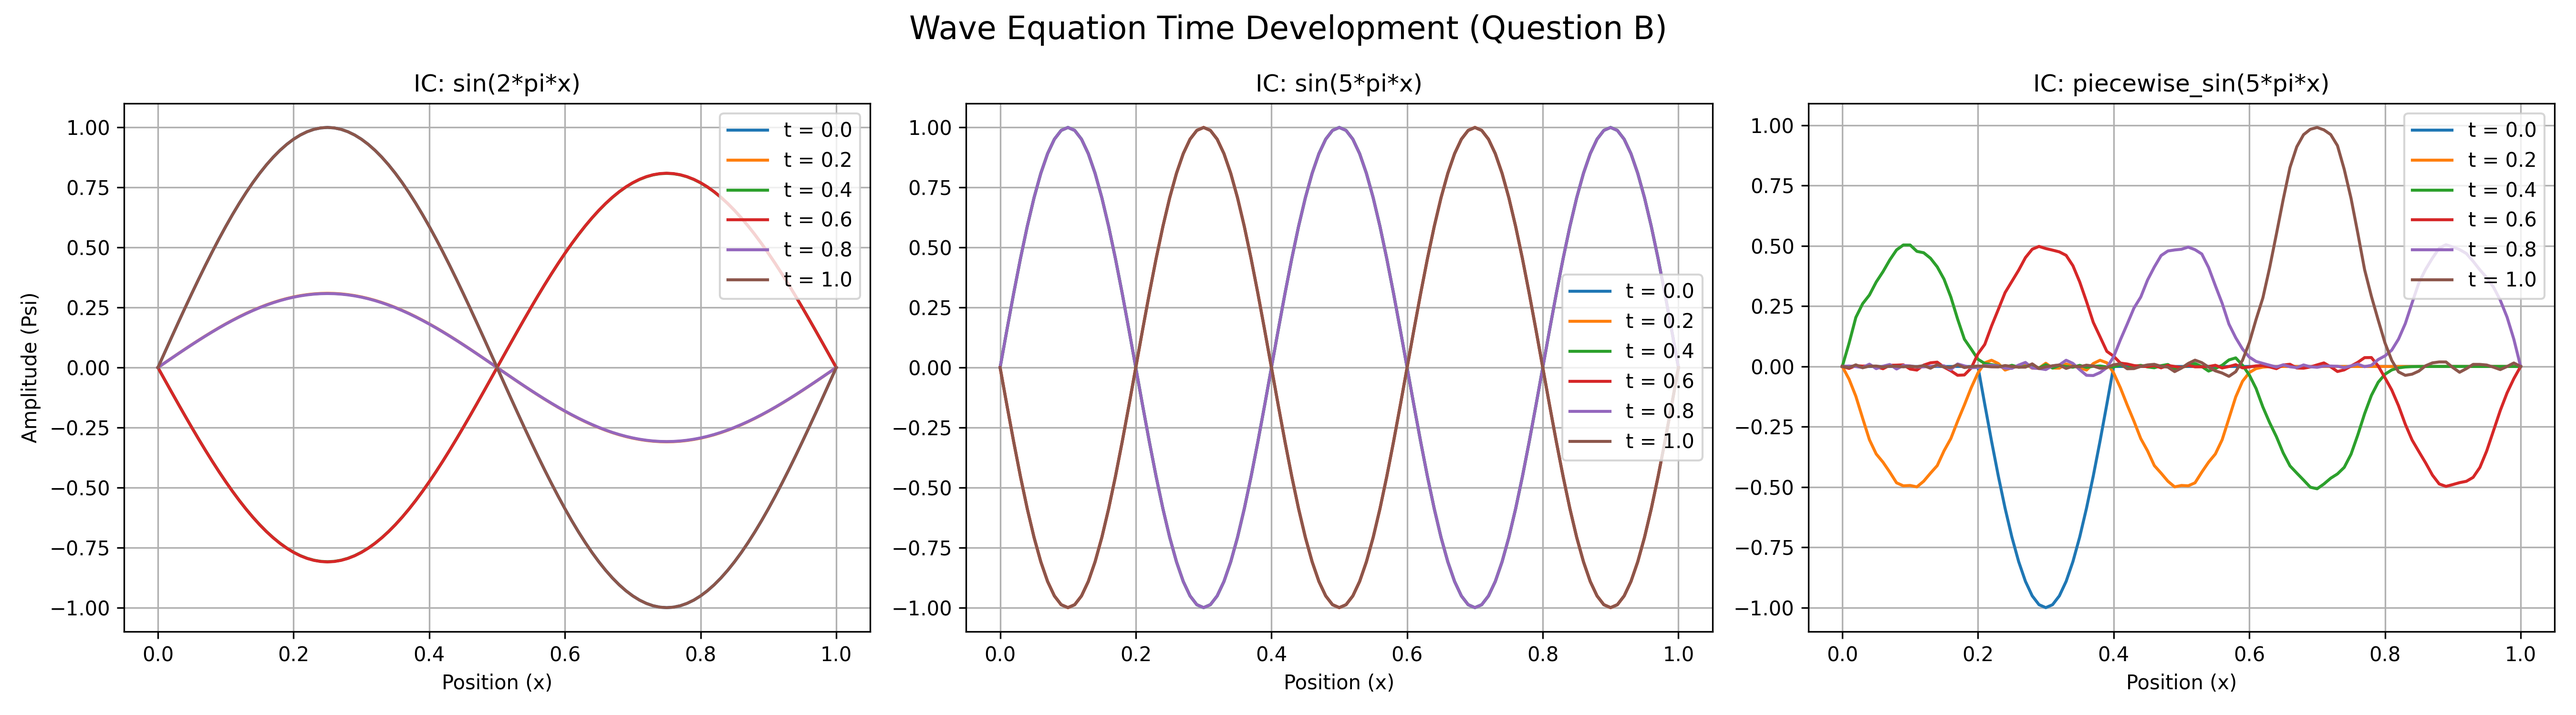
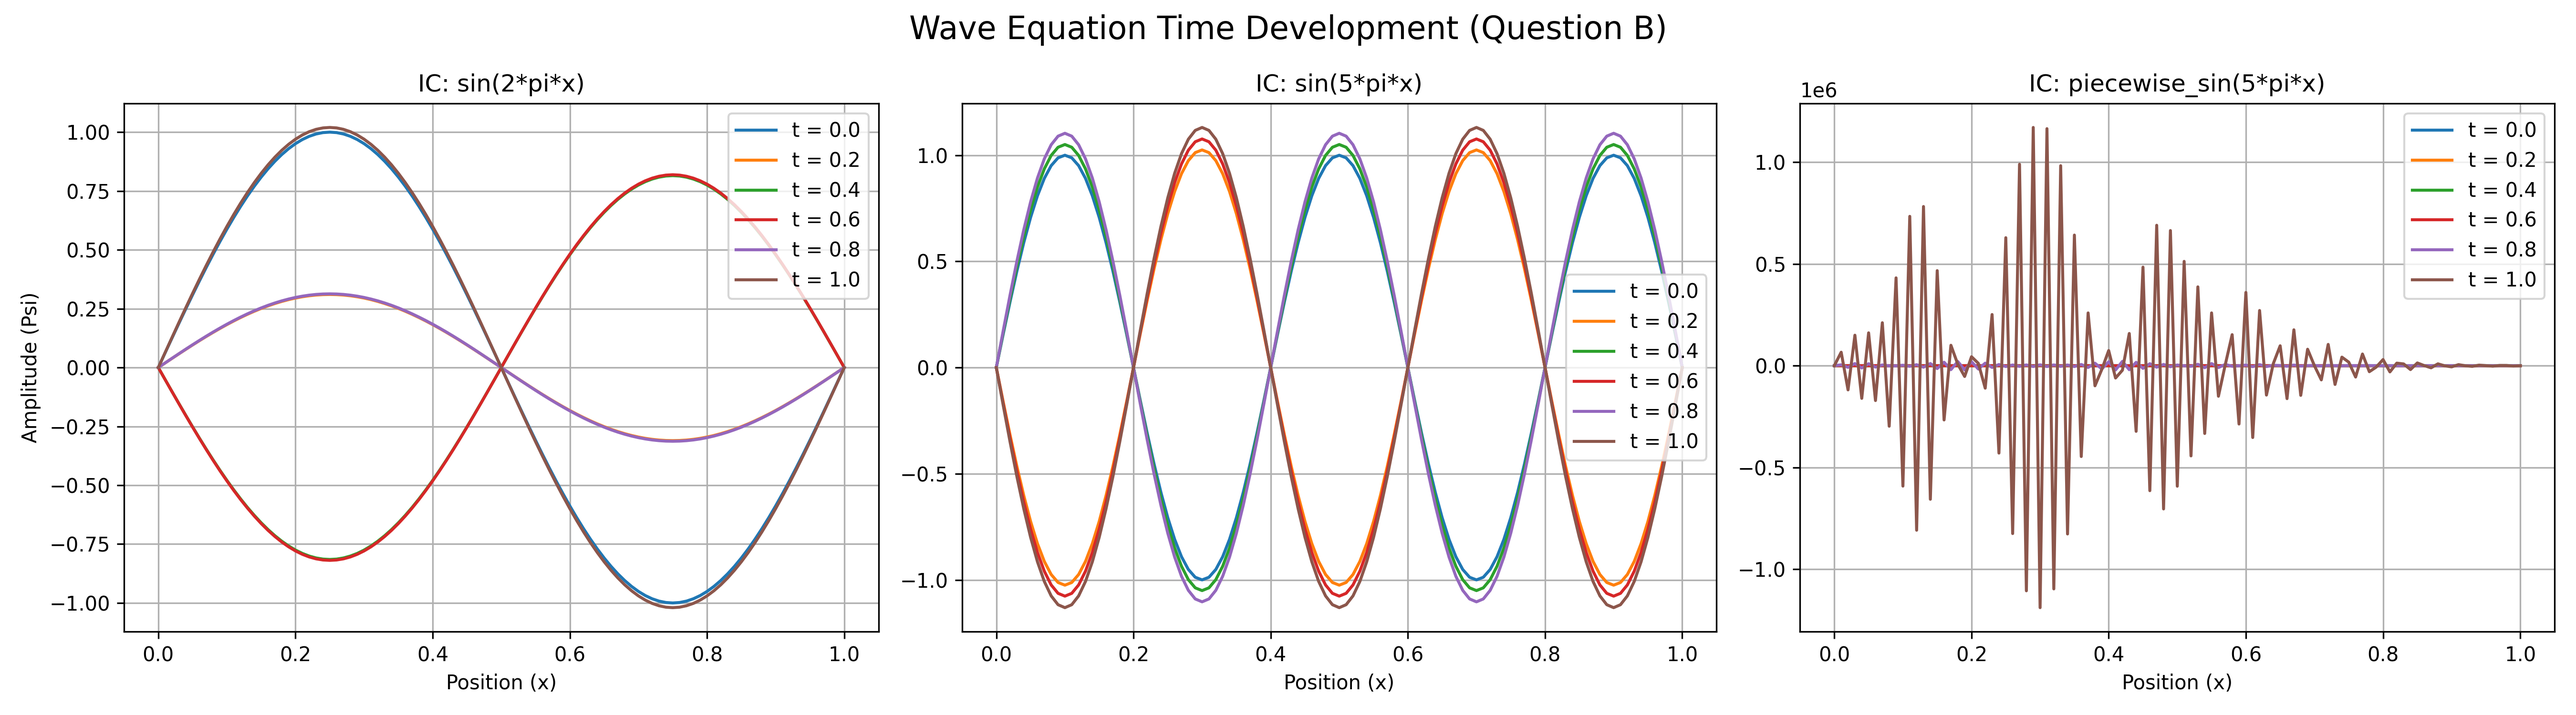
leapfrog vs euler

diff --git a/assignment_1/experiment_wave.py b/assignment_1/experiment_wave.py
@@ -126,45 +126,70 @@ def run_experiment_c():
         plt.close()
 
 def run_experiment_bonus():
-    """Run and plot the results for the Optional Leapfrog Bonus"""
-    print("Running Optional Bonus: Leapfrog vs Explicit Stability...")
+    """Run and plot the results for the Optional Leapfrog Bonus.
+    Compares the forward Euler method (which is not symplectic and gains energy)
+    against the Leapfrog method (which is symplectic and conserves energy)."""
+    print("Running Optional Bonus: Euler vs Leapfrog Stability...")
     L = 1.0
     N = 100
     c = 1.0
     dt = 0.001
     x = np.linspace(0, L, N + 1)
-
-    # Use a long time to clearly see error accumulation in explicit
-    t_max = 20.0
-
-    # We use sin(2pix)
     psi0 = initial_condition_1(x)
 
-    print("  Solving with Explicit Method...")
-    psi_explicit, _ = solve_wave_equation(psi0, N, dt, c=c, L=L, t_max=t_max)
+    # --- Panel 1: String state comparison at a moderate time ---
+    # At t=1.5 the Euler drift is visible but hasn't blown up yet
+    t_compare = 1.5
+    psi_euler_short, _ = solve_wave_equation(psi0, N, dt, c=c, L=L, t_max=t_compare)
+    psi_lf_short, _ = solve_wave_equation_leapfrog(psi0, N, dt, c=c, L=L, t_max=t_compare)
+    # Analytical: sin(2*pi*x) * cos(2*pi*1.5) = sin(2*pi*x) * cos(3*pi) = -sin(2*pi*x)
+    analytical = np.sin(2 * np.pi * x) * np.cos(2 * np.pi * c * t_compare / L)
 
+    # --- Panel 2: Amplitude over time on log scale to show divergence ---
+    t_long = 3.0  # Euler diverges around t~2.5
+    print("  Solving with Euler Method...")
+    psi_euler, _ = solve_wave_equation(psi0, N, dt, c=c, L=L, t_max=t_long)
     print("  Solving with Symplectic Leapfrog Method...")
-    psi_leapfrog, _ = solve_wave_equation_leapfrog(psi0, N, dt, c=c, L=L, t_max=t_max)
+    psi_leapfrog, _ = solve_wave_equation_leapfrog(psi0, N, dt, c=c, L=L, t_max=t_long)
 
-    # Let's compare the string state at the very end
-    plt.figure(figsize=(10, 6))
-    plt.plot(x, psi0, 'k--', label="t = 0 (Initial)", alpha=0.5)
+    fig, axes = plt.subplots(1, 2, figsize=(14, 5))
+    fig.suptitle("Euler vs Leapfrog: Stability Comparison", fontsize=16)
 
-    # analytical solution at t_max should be back to sin(2*pi*x) if t_max is an integer multiple of the period
-    # period = L / c = 1.0. So at t=20.0, it's exactly the initial condition.
-    plt.plot(x, psi_explicit[-1, :], 'r-', label="Explicit Method (t=20)")
-    plt.plot(x, psi_leapfrog[-1, :], 'b-', label="Leapfrog Method (t=20)")
+    # Panel 1
+    ax = axes[0]
+    ax.plot(x, analytical, 'k--', label=f"Exact (t={t_compare})", alpha=0.5)
+    ax.plot(x, psi_euler_short[-1, :], 'r-', label=f"Euler (t={t_compare})")
+    ax.plot(x, psi_lf_short[-1, :], 'b-', label=f"Leapfrog (t={t_compare})")
+    ax.set_title(f"String State at t = {t_compare}")
+    ax.set_xlabel("Position (x)")
+    ax.set_ylabel("Amplitude (Ψ)")
+    ax.legend()
+    ax.grid(True)
 
-    plt.title(f"Wave Equation Stability after Long Time (t={t_max})")
-    plt.xlabel("Position (x)")
-    plt.ylabel("Amplitude (Psi)")
-    plt.legend()
-    plt.grid(True)
+    # Panel 2: Log-scale amplitude
+    ax = axes[1]
+    n_steps = psi_euler.shape[0]
+    sample_interval = 100
+    sample_indices = range(0, n_steps, sample_interval)
+    times = [i * dt for i in sample_indices]
+    amp_euler = [np.max(np.abs(psi_euler[i, :])) for i in sample_indices]
+    amp_leapfrog = [np.max(np.abs(psi_leapfrog[i, :])) for i in sample_indices]
 
+    ax.semilogy(times, amp_euler, 'r-', label="Euler", linewidth=1)
+    ax.semilogy(times, amp_leapfrog, 'b-', label="Leapfrog", linewidth=1)
+    ax.axhline(y=1.0, color='k', linestyle='--', alpha=0.5, label="True amplitude")
+    ax.set_title("Maximum Amplitude Over Time")
+    ax.set_xlabel("Time (s)")
+    ax.set_ylabel("Max |Ψ| (log scale)")
+    ax.legend()
+    ax.grid(True)
+
+    plt.tight_layout()
     filepath = os.path.join("figures", "wave_plot_leapfrog_comparison.png")
     plt.savefig(filepath, dpi=300)
     plt.close()
     print(f"Saved {filepath}")
+
 
 
 if __name__ == "__main__":

diff --git a/assignment_1/wave_equation.py b/assignment_1/wave_equation.py
@@ -3,39 +3,40 @@ import matplotlib.pyplot as plt
 
 def solve_wave_equation(psi_initial, N, dt, c=1.0, L=1.0, t_max=2.0):
     """
-    Solve the 1D wave equation using the explicit finite difference method.
-    Discretizes: d^2Psi/dt^2 = c^2 d^2Psi/dx^2
+    Solve the 1D wave equation using Euler's method.
+    Treats the wave equation as a first-order system:
+        dPsi/dt = v
+        dv/dt   = c^2 * d^2Psi/dx^2
+    and applies forward Euler time-stepping to both variables.
+
+    Note: Forward Euler is not symplectic. For oscillatory systems it
+    systematically gains energy, which becomes visible over long times.
     """
     dx = L / N
-    alpha = (c * dt / dx)
-
-    # Check Courant stability condition: alpha must be <= 1
-    if alpha > 1:
-        print(f"Warning: Courant number {alpha:.2f} > 1. Unstable!")
-
     n_steps = int(t_max / dt) + 1
     x = np.linspace(0, L, N + 1)
 
-    # Initialize solution matrix (time steps x spatial points)
+    # Initialize solution matrix and velocity
     psi = np.zeros((n_steps, N + 1))
+    v = np.zeros(N + 1)
+
     psi[0, :] = psi_initial
+    # Initial velocity is zero: Psi_t(x, t=0) = 0
 
-    # Step 1: Initial Velocity = 0 condition
-    # Uses special case formula for the first step to avoid t-dt index
-    # Change: Optimized with array slicing [1:-1] instead of a manual for-loop to increase speed #
-    psi[1, 1:-1] = psi[0, 1:-1] + 0.5 * alpha**2 * (psi[0, 2:] - 2*psi[0, 1:-1] + psi[0, :-2])
+    c_sq_dx_sq = c**2 / dx**2
 
-    # Time Stepping (Central Difference)
-    for n in range(1, n_steps - 1):
-        # Change: Used vectorized NumPy operations for the main loop to handle the entire string at once #
-        # Change: Standardized indexing to psi[n+1], psi[n], and psi[n-1] for better readability #
-        psi[n+1, 1:-1] = (2 * psi[n, 1:-1] - psi[n-1, 1:-1] +
-                          alpha**2 * (psi[n, 2:] - 2*psi[n, 1:-1] + psi[n, :-2]))
+    for n in range(n_steps - 1):
+        # Compute acceleration: a = c^2 * d^2Psi/dx^2
+        a = np.zeros(N + 1)
+        a[1:-1] = c_sq_dx_sq * (psi[n, 2:] - 2 * psi[n, 1:-1] + psi[n, :-2])
 
-        # Enforce Fixed Boundary Conditions: Psi(x=0)=0 and Psi(x=L)=0
-        # Change: Explicitly set boundaries to zero at every time step for stability #
-        psi[n+1, 0] = 0
-        psi[n+1, -1] = 0
+        # Forward Euler update (both use values at current time n)
+        psi[n + 1, :] = psi[n, :] + dt * v
+        v = v + dt * a
+
+        # Enforce fixed boundary conditions: Psi(x=0) = 0, Psi(x=L) = 0
+        psi[n + 1, 0] = 0.0
+        psi[n + 1, -1] = 0.0
 
     return psi, x
 
